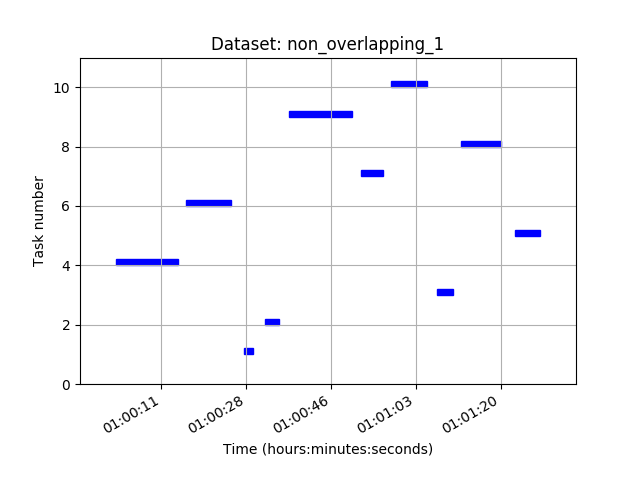
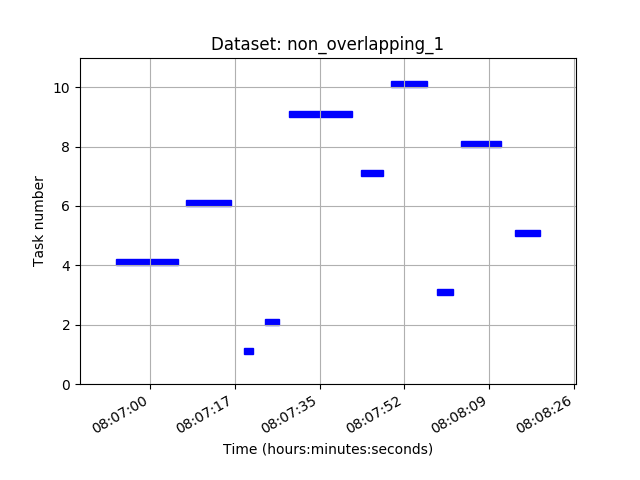
plot: Reference constraints to current time

diff --git a/dataset_lib/plot_datasets.py b/dataset_lib/plot_datasets.py
@@ -14,10 +14,11 @@ def plot_dataset(dataset_name, tasks, show=False):
 
     dataset_start_time = float('inf')
     dataset_finish_time = - float('inf')
+    now = datetime.now().timestamp()
 
     for i, task in enumerate(tasks):
-        earliest_start_time = task.earliest_start_time
-        latest_finish_time = task.latest_start_time + task.estimated_duration
+        earliest_start_time = task.earliest_start_time + now
+        latest_finish_time = task.latest_start_time + task.estimated_duration + now
 
         if earliest_start_time < dataset_start_time:
             dataset_start_time = earliest_start_time
